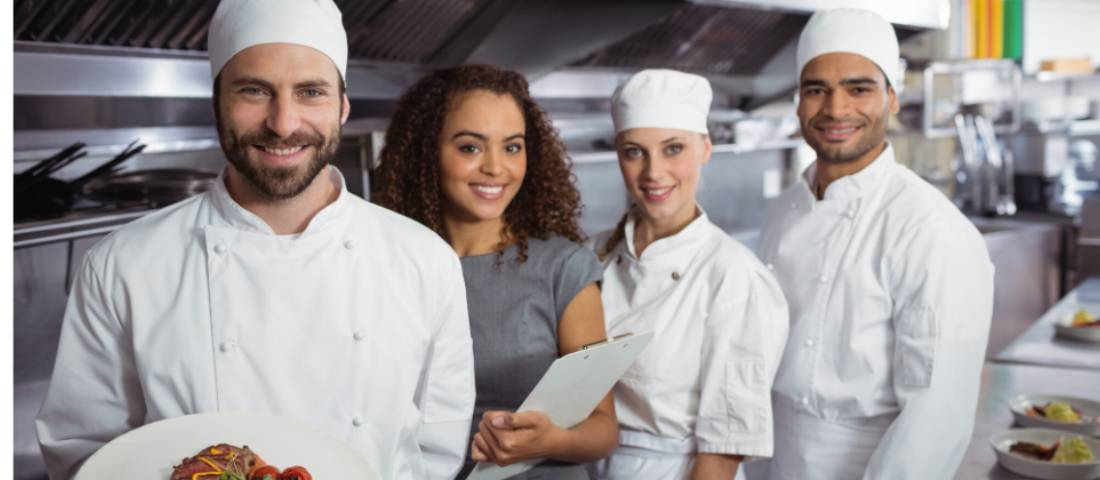
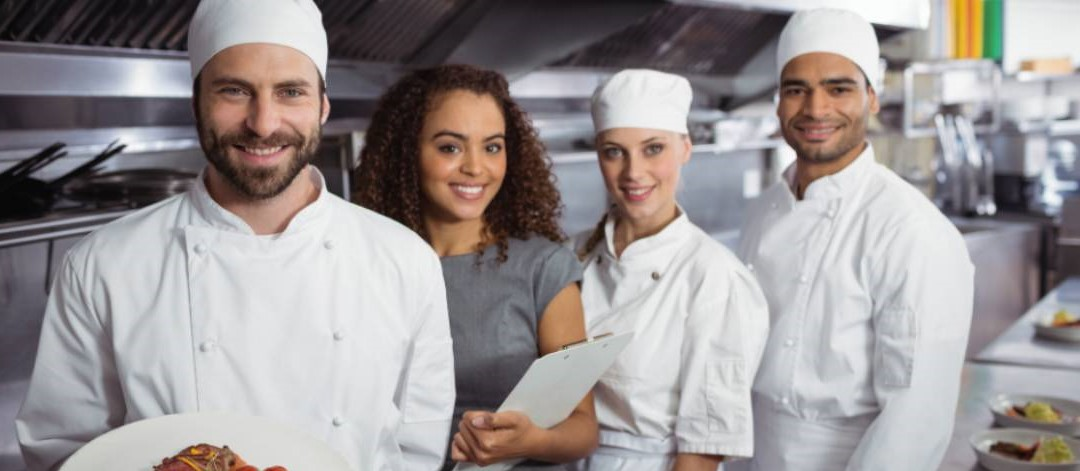
com_19_14

diff --git a/html/css/style.css b/html/css/style.css
@@ -24,6 +24,12 @@ body {
 	
 }
 
+body .employees {
+  display: block;
+  margin-left: auto;
+  margin-right: auto;
+}
+
 body .wrapper {
   margin-left: 2em;
   color: var(--background);

diff --git a/html/templates/cnts.php b/html/templates/cnts.php
@@ -5,4 +5,7 @@
   <p>
   Somos o Especial K restaurante , um espaco que priveligia a partilha de sabores e de momentos num ambiente confortável e moderno aliado à nova tecnologia. Localizado em plena Rua Dr. Roberto Frias, o ESPECIAL K pretende afirmar-se como uma referencia no que toca a boa comida e alta tecnologia associada nesta zona nobre da cidade. Para além do restaurante, todo o nosso sistema de reservas bem como o pagamento através da simplicidade de um clique, faz do nosso espaco e do nosso atendimento um dos melhores da cidade, tornado-o assim no local ideal para um cocktail e um bom jantar, para relaxar em qualquer momento do seu dia. Faca a sua reserva e deixe tudo por nossa conta
 </p>
+<img src="images/employees.jpg" alt="employees" class="employees">
+
+
 </html>

diff --git a/html/templates/header.php b/html/templates/header.php
@@ -18,11 +18,11 @@
         <a href="list_cart.php">
           <i class="fas fa-shopping-basket"></i> [<?=cartSize()?>]
         </a>
-		<form action="reset_cart.php" method="post">
+		<!-- <form action="reset_cart.php" method="post">
               <button class="resetbtn"  type="submit">
                 <i class="fas fa-times"></i>
               </button>
-      </form>
+      </form> -->
       </div>
 
       

diff --git a/html/templates/delivery.php b/html/templates/delivery.php
@@ -2,7 +2,7 @@
     <html>
 
     <body>
-        
+        <section id="delivery">
         <form action="action_delivery.php" method="post">
         <label for="appt">Ja Fez o seu pedido? O resto, deixe conosco!!!</label>
 
@@ -38,6 +38,7 @@
         </Label>
         </form>
 
+    </section>
     </body>
 
     </html>

diff --git a/html/action_takeaway.php b/html/action_takeaway.php
@@ -1,0 +1,12 @@
+<?php
+  require_once('config/init.php');
+  require_once('database/delivery.php');
+
+  $nome_delivery = $_POST['nome_delivery'];
+  $hora = $_POST['hora'];
+  $telefone = $_POST['telefone'];
+  
+
+  insertDelivery($nome_delivery, $telefone, $hora);
+
+?>

diff --git a/html/templates/takeaway.php b/html/templates/takeaway.php
@@ -8,8 +8,8 @@
 <input name="data" type="date" value="2020-12-30">
 </form>
 
-<input type="time" id="appt" name="appt"
-       min="09:00" max="18:00" required>
+<input type="time" id="lol" name="lol"
+       min="12:00" max="15:00" required>
 
 
  </section>

diff --git a/html/reset_cart.php b/html/reset_cart.php
@@ -1,6 +1,6 @@
 <?php
   require_once('config/init.php');
-  $_SESSION['cart']= '0'; 
+//   $_SESSION['cart']= '0'; 
 
-  header('Location: ' . $_SERVER['HTTP_REFERER']);
+//   header('Location: ' . $_SERVER['HTTP_REFERER']);
 ?>
